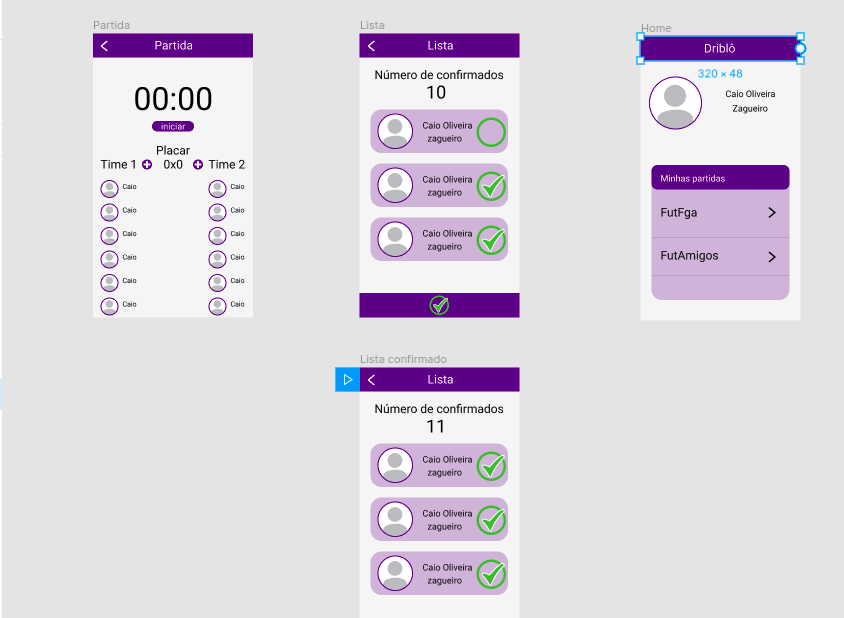
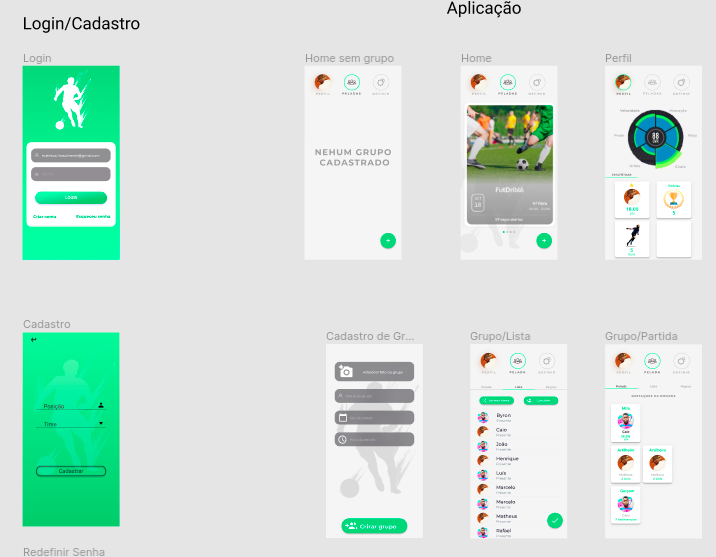
Adicionado versão 2.0 do protótipo

diff --git a/docs/prototipo.md b/docs/prototipo.md
@@ -9,23 +9,47 @@ sidebar_label: Protótipo
 |    Data    |              Autor(es)              |                     Descrição                      | Versão |
 | :--------: | :---------------------------------: | :------------------------------------------------: | :----: |
 | 22/08/2019 |          Caio Oliveira          | Criação do documento e tópicos |  0.1   |
+| 18/11/2019 |          Caio Oliveira          | Adição da versão 2.0 do protótipo |  0.2  |
+
+<p>
 
 ## 1. Introdução
+
+<p>
+
 Protótipo é uma ferramenta usada  para se obter respostas iniciais sobre os requisitos através de um modelo funcional do produto esperado, antes de efetivamente construí-lo. Já que um protótipo é tangível, ele permite que as partes interessadas façam experiências com um modelo do seu produto final ao invés de somente discutirem representações abstratas dos seus requisitos.
 
 ## 2.Objetivo
+
+<p>
+
 O objetivo do protótipo é obter feedbacks do usuário e elicitar requisitos com bases nesses feedbacks.
 
 ## 3.Metodologia
+
+<p>
+
 O protótipo inicial foi feito na ferramenta figma para o design inicial das telas e fluxo da aplicação.
 
 ## 4. Protótipo
 
+<p>
+
 ![prototipo](assets/protótipo.png)
-[Link para o protótipo](https://www.figma.com/file/mhQUPqOBKO8yN01qKs8uWA/Untitled)
+[Link versão 2.0 do protótipo](https://www.figma.com/file/sPjIQZdyQytusjRXPrEc6o/Dribl%C3%B4?node-id=0%3A1)
+
+<p>
+
+[Link versão 1.0 do protótipo](https://www.figma.com/file/mhQUPqOBKO8yN01qKs8uWA/Untitled)
 
 ## 5.Conclusão
+
+<p>
+
 Com a prototipação inicial foi possível validar as ideias e fluxos inicais da apliação.
 
 ## 6.Referências
+
+<p>
+
 - Google Design Sprint: como funciona e como aplicar no seu projeto. Disponível em : https://brasil.uxdesign.cc/google-design-sprint-como-funciona-e-como-aplicar-no-seu-projeto-279107363659?gi=bdd02dc3aab0
